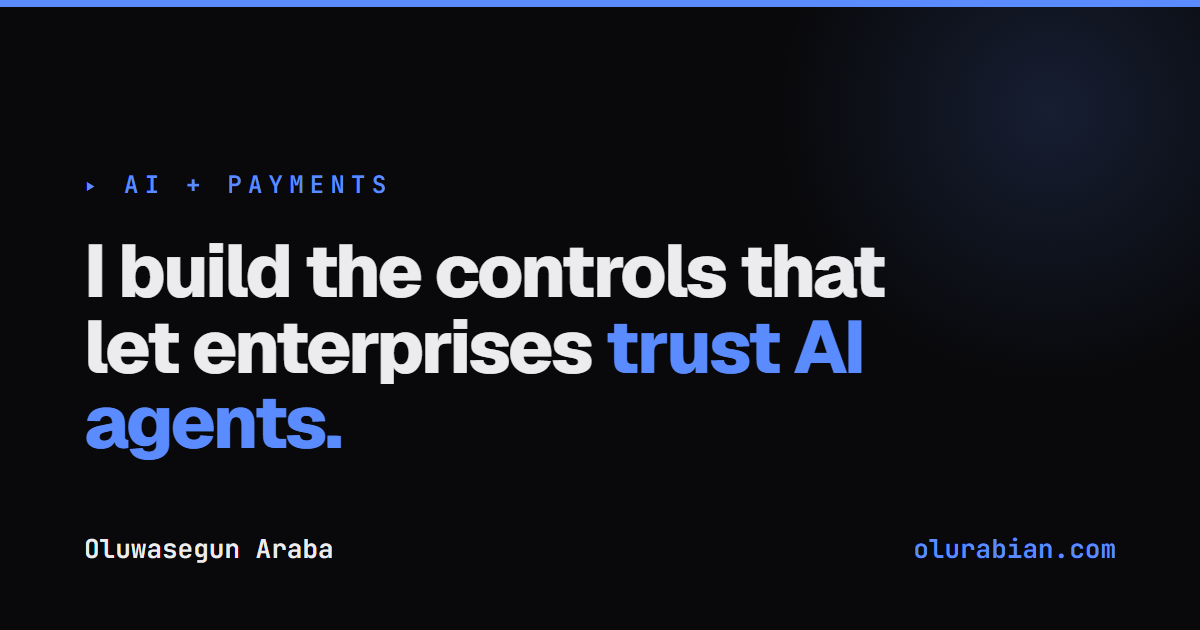
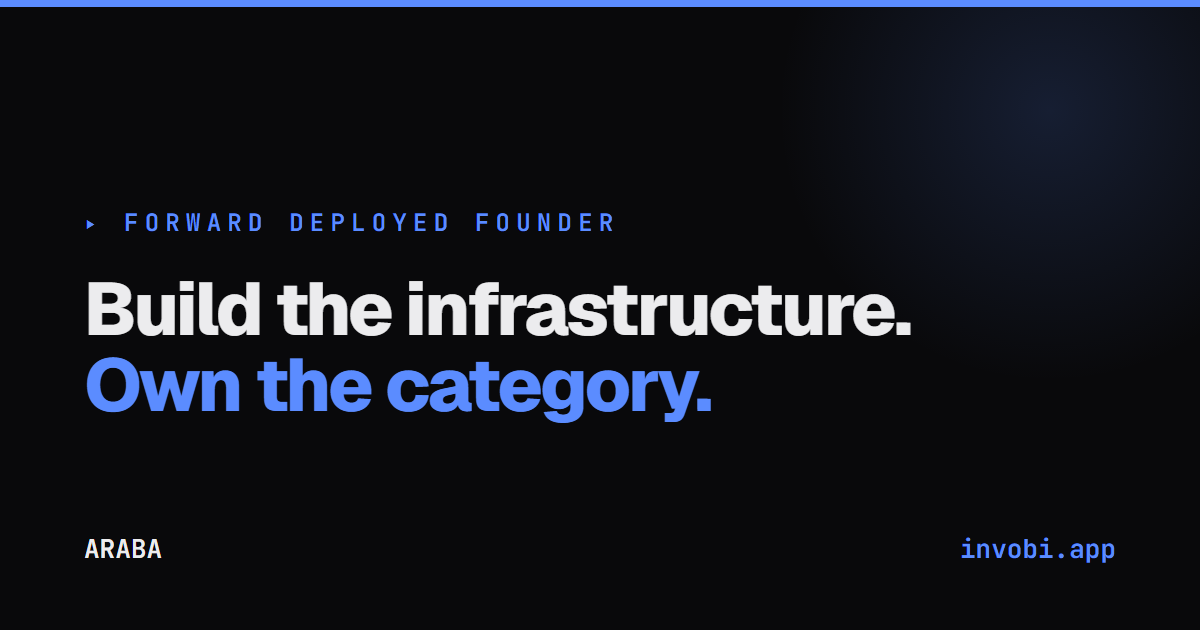
feat: meta/OG refresh + responsive and a11y polish
- Add meta description, canonical, og:title, og:description, og:image, og:url, twitter:card, twitter:creator tags
- Update og.html headline to "Build the infrastructure. Own the category." with invobi.app footer
- Regenerate og-image.png with new positioning via Chrome headless
- Append responsive/a11y CSS: prefers-reduced-motion, img sizing, mobile form column layout, mobile hero min-height

diff --git a/index.html b/index.html
@@ -4,6 +4,14 @@
 <meta charset="utf-8">
 <meta name="viewport" content="width=device-width, initial-scale=1">
 <title>ARABA. Forward Deployed Founder</title>
+<meta name="description" content="ARABA. Forward Deployed Founder. One operator, an AI machine, building and owning the infrastructure categories where AI touches money and memory. Creator of invobi and Purse.">
+<link rel="canonical" href="https://olurabian.com/">
+<meta property="og:title" content="ARABA - Forward Deployed Founder">
+<meta property="og:description" content="One operator. An AI machine. Building where AI touches money and memory. invobi, Purse, Company Brain.">
+<meta property="og:image" content="https://olurabian.com/og-image.png">
+<meta property="og:url" content="https://olurabian.com/">
+<meta name="twitter:card" content="summary_large_image">
+<meta name="twitter:creator" content="@Olurabian">
 <link rel="preconnect" href="https://fonts.googleapis.com">
 <link rel="preconnect" href="https://fonts.gstatic.com" crossorigin>
 <link href="https://fonts.googleapis.com/css2?family=Syne:wght@700;800&family=Geist:wght@400;500;600&family=JetBrains+Mono:wght@400;500;600&display=swap" rel="stylesheet">

diff --git a/styles.css b/styles.css
@@ -58,3 +58,10 @@ h2{font-size:clamp(28px,4.5vw,48px)}
 .footer-in{display:flex;justify-content:space-between;align-items:center;padding:40px 0;
   font-family:var(--mono);font-size:13px;color:var(--muted)}
 @media (max-width:640px){.cards{grid-template-columns:1fr}.nav-links{gap:16px}}
+@media (prefers-reduced-motion: reduce){ html{scroll-behavior:auto} }
+img{max-width:100%;height:auto}
+@media (max-width:640px){
+  #hero{min-height:auto}.hero-in{padding:96px 0}
+  .lede,.body-lg{font-size:16px}
+  .audit-form{flex-direction:column}.audit-form input{min-width:0}
+}

diff --git a/og.html b/og.html
@@ -24,8 +24,8 @@
 <body>
   <div class="card">
     <div class="bar"></div><div class="glow"></div>
-    <div class="eyebrow">▸ AI + PAYMENTS</div>
-    <h1>I build the controls that let enterprises <span class="hl">trust AI agents.</span></h1>
-    <div class="foot"><span class="name">Oluwasegun Araba</span><span class="url">olurabian.com</span></div>
+    <div class="eyebrow">▸ FORWARD DEPLOYED FOUNDER</div>
+    <h1>Build the infrastructure.<br><span class="hl">Own the category.</span></h1>
+    <div class="foot"><span class="name">ARABA</span><span class="url">invobi.app</span></div>
   </div>
 </body></html>